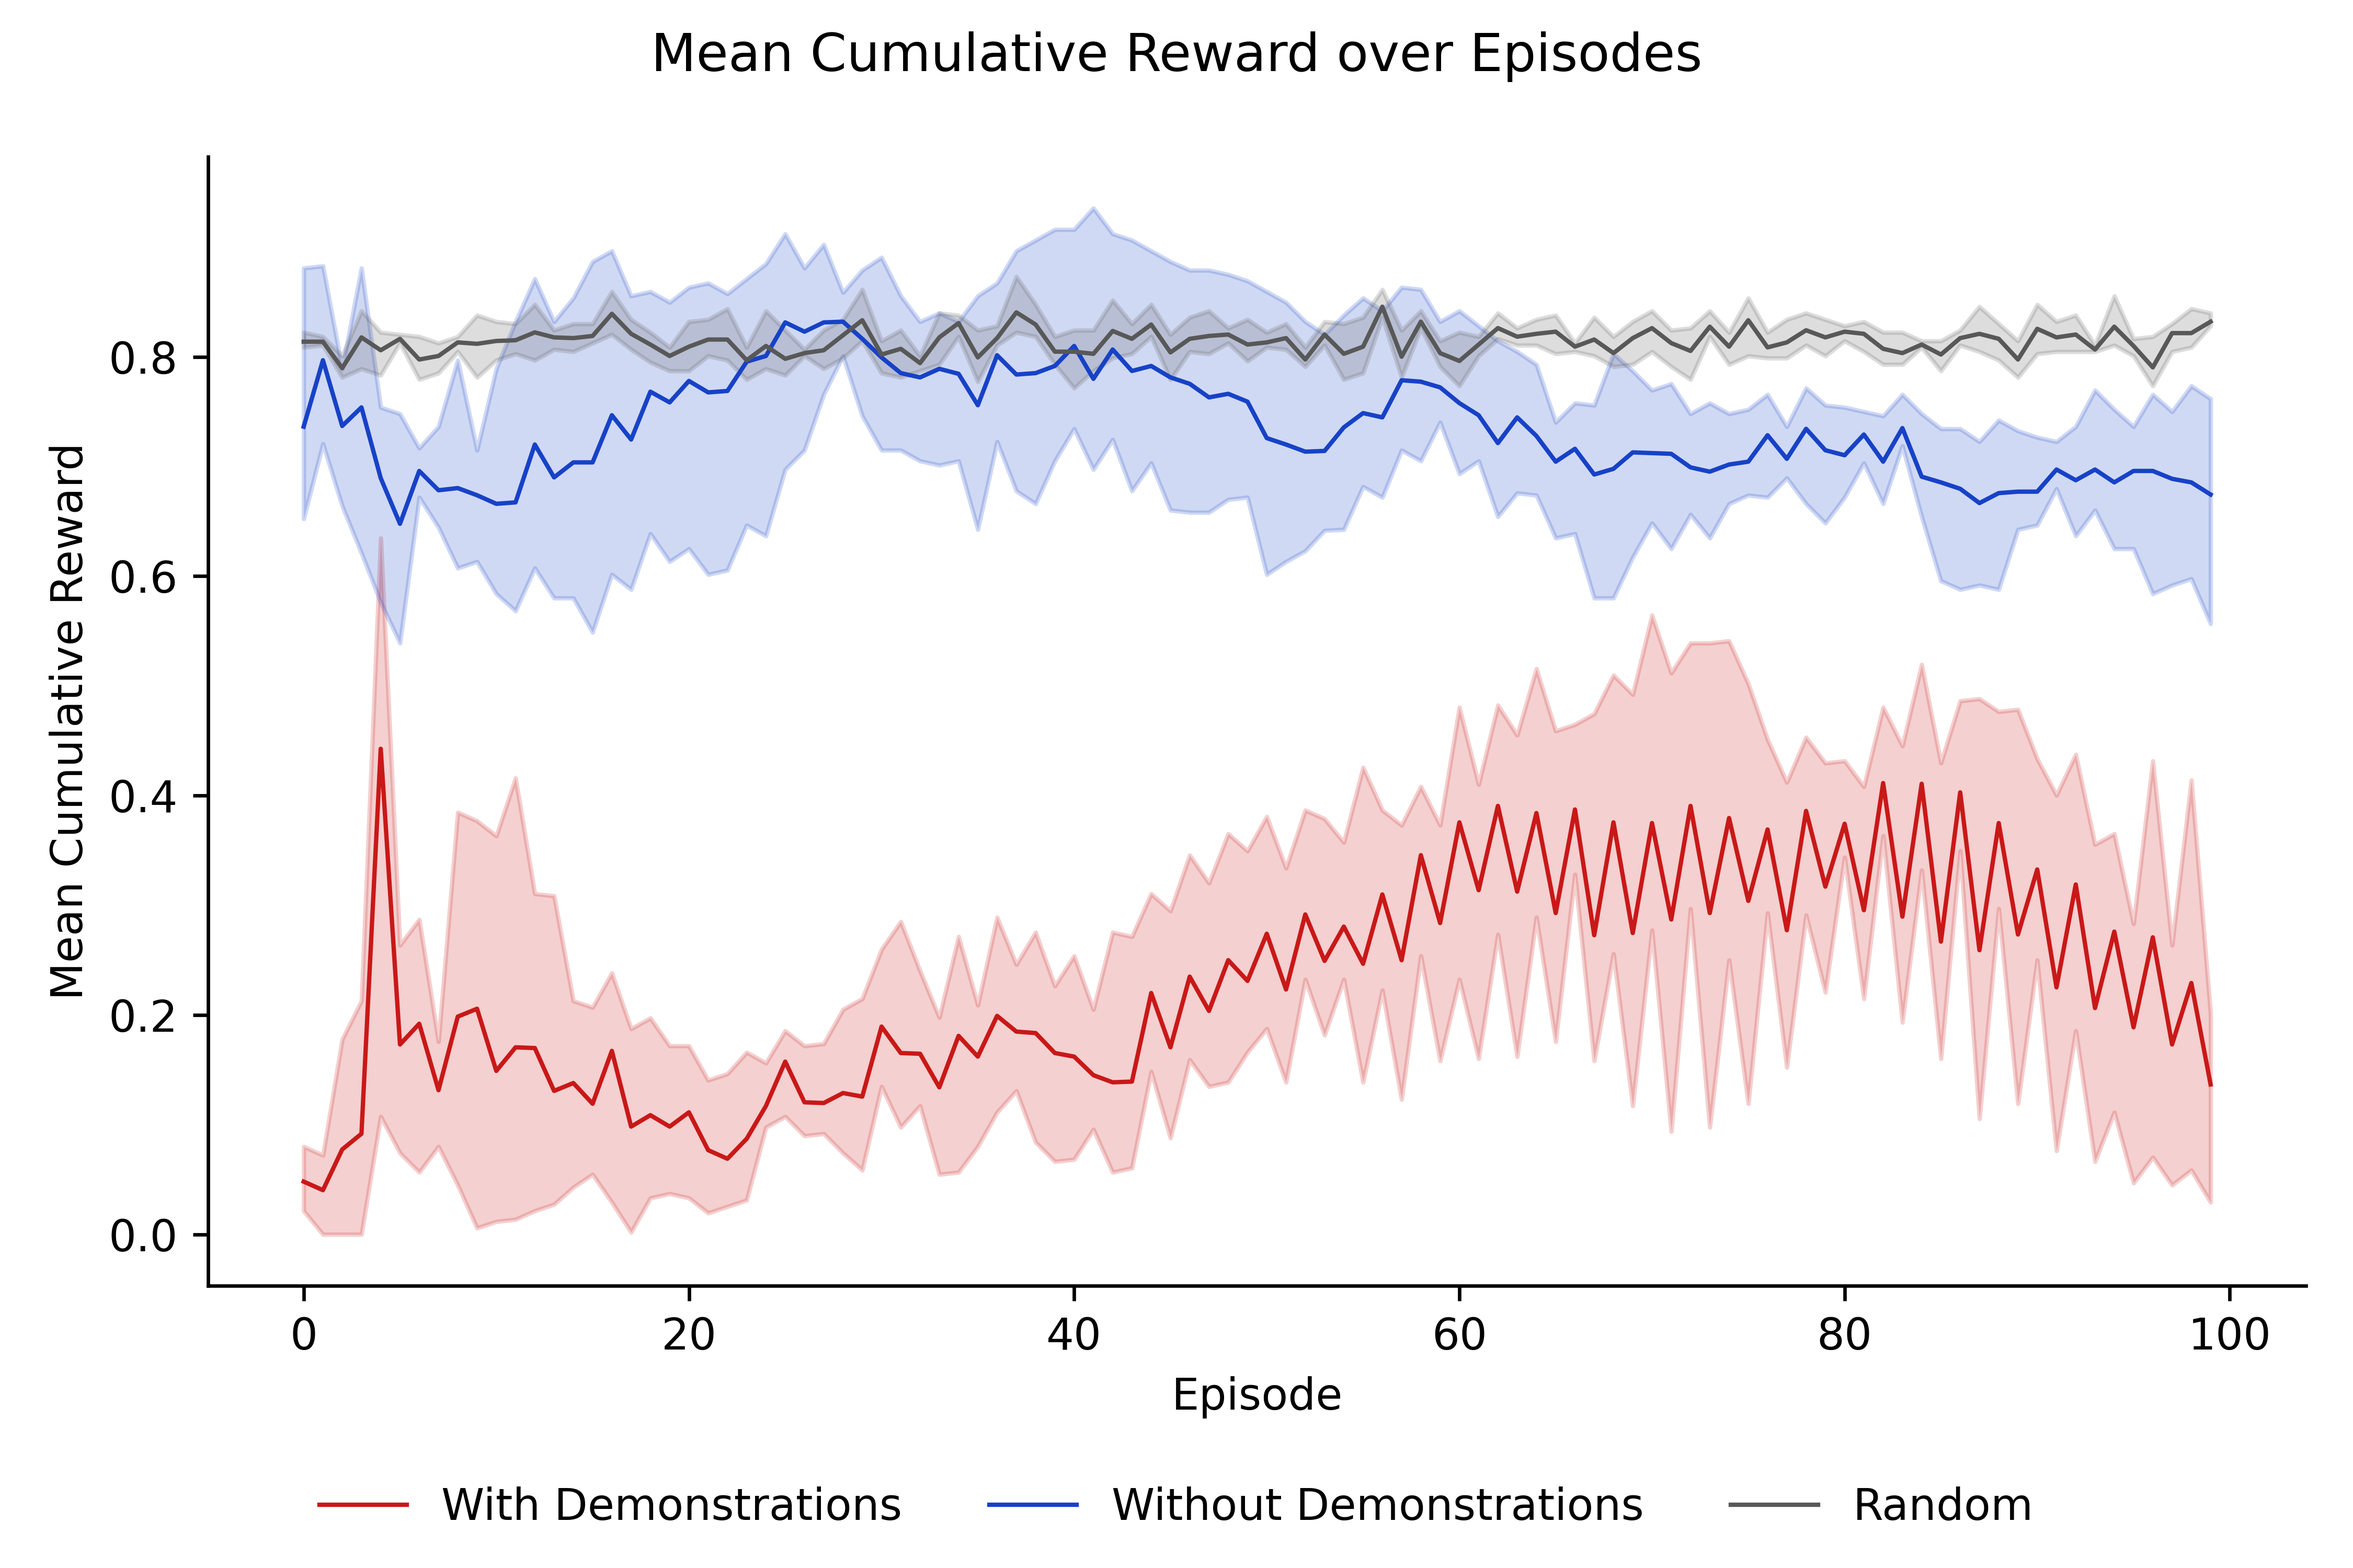
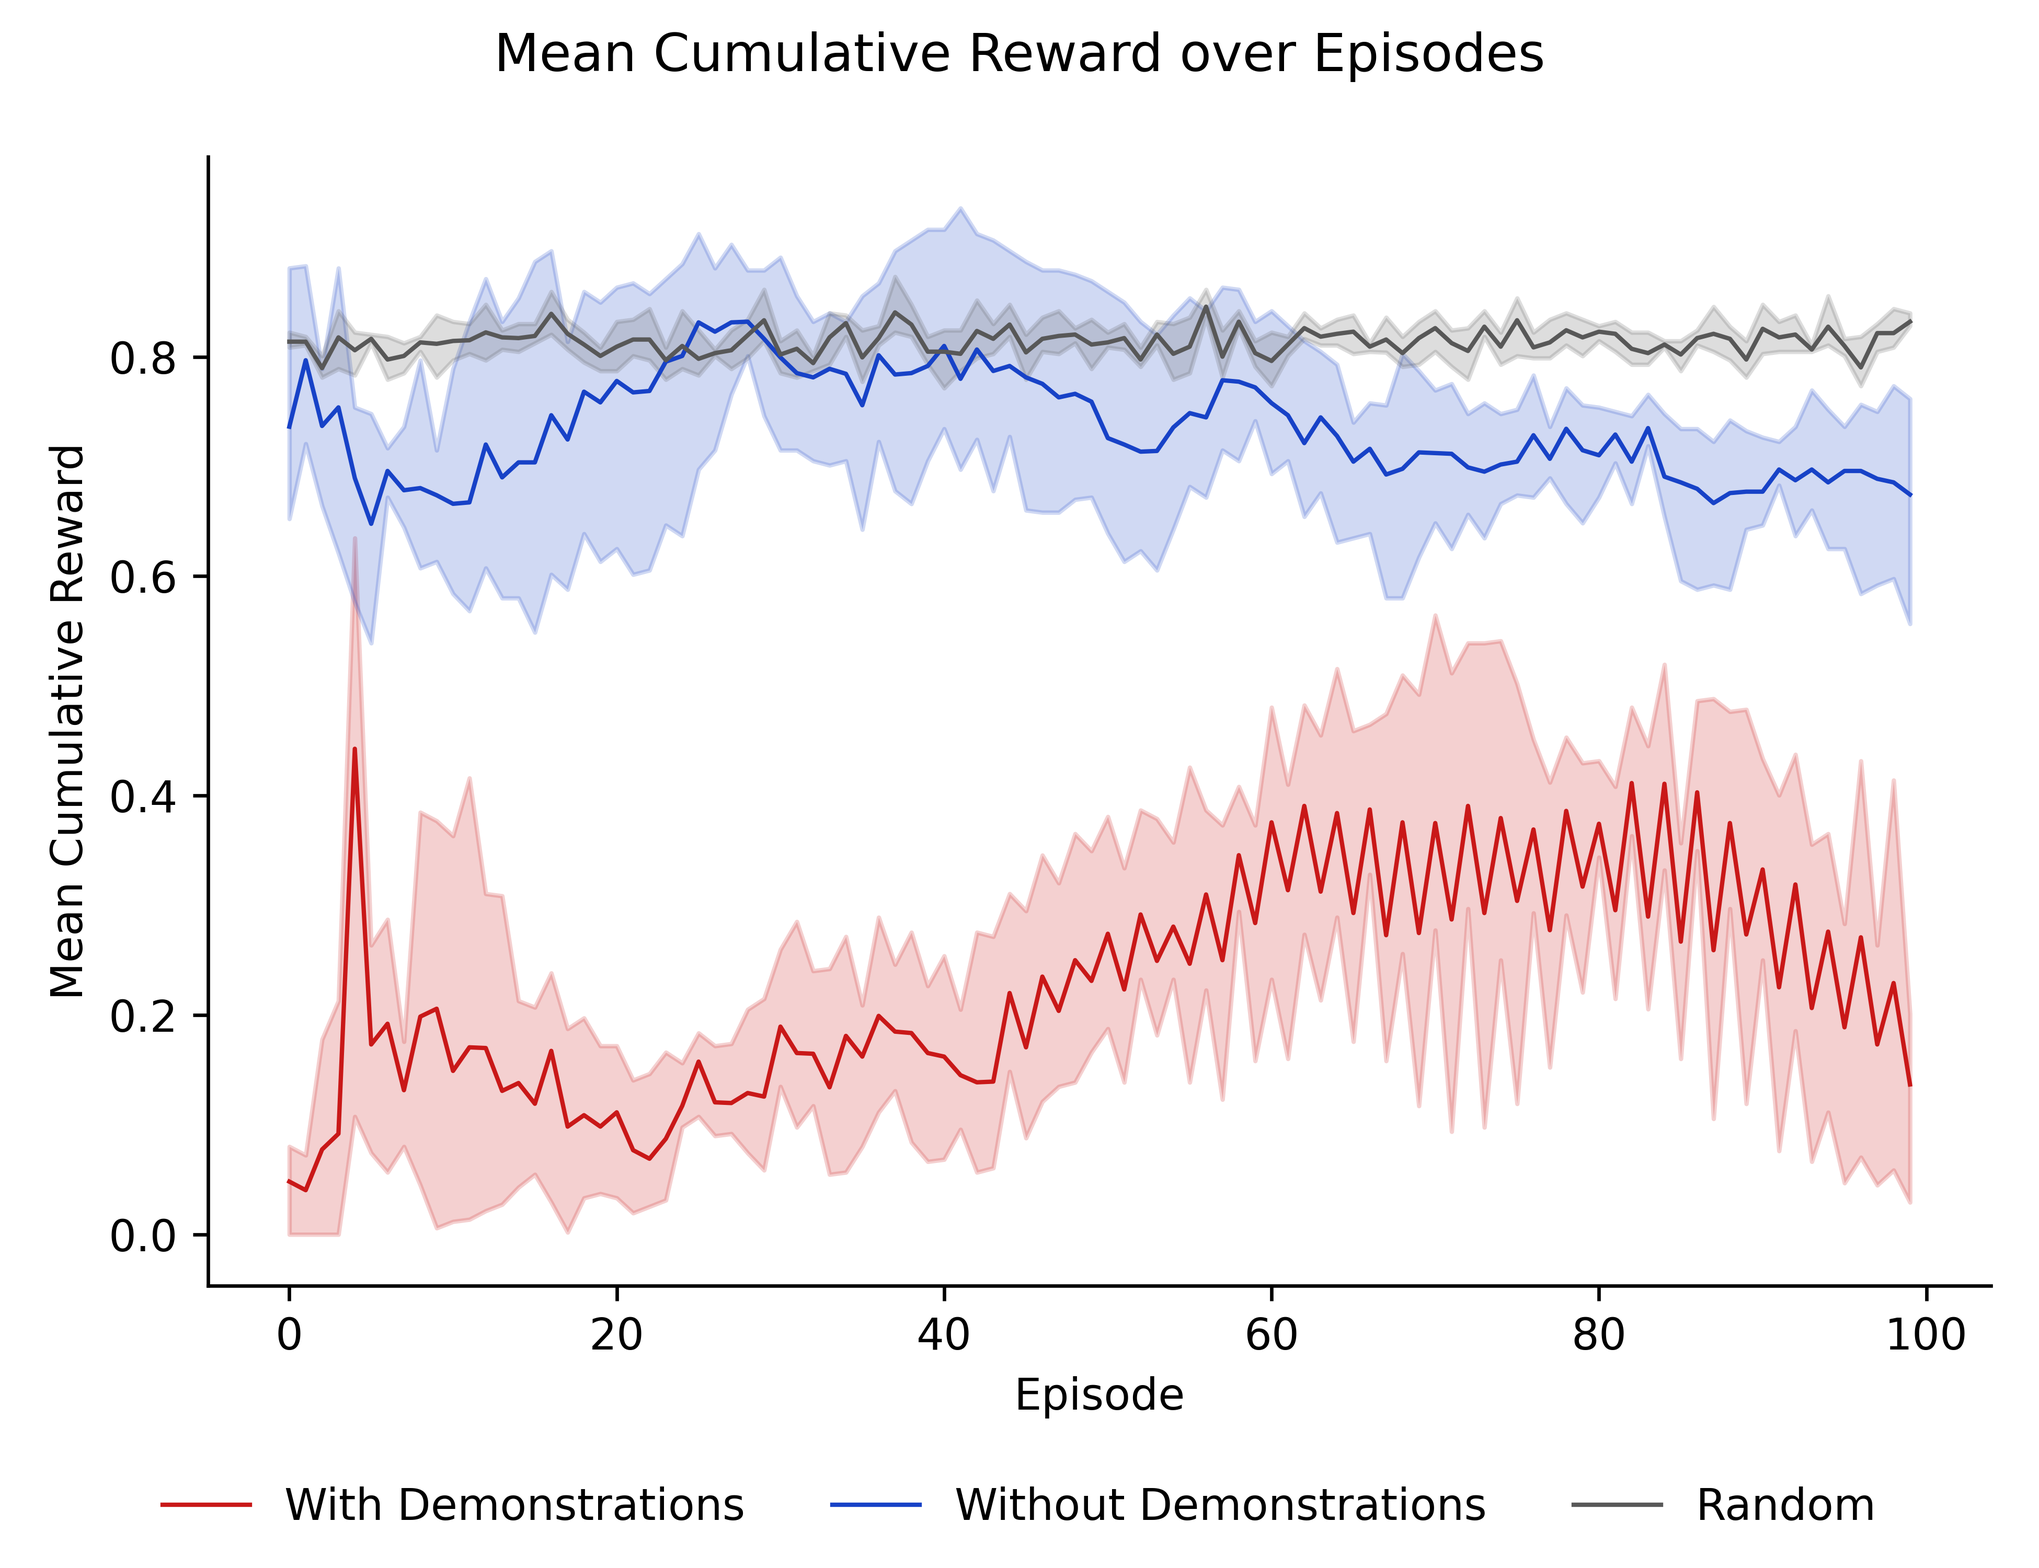
Adjusted plot widths

diff --git a/gen_rl_graphs/gen_rl_graphs.py b/gen_rl_graphs/gen_rl_graphs.py
@@ -70,7 +70,7 @@ def show_plot(
         y_var='Mean Cumulative Reward',
     )
     
-    plot.figure.set_figwidth(7.5)
+    plot.figure.set_figwidth(6.5)
     
     plot.figure.tight_layout()
 
